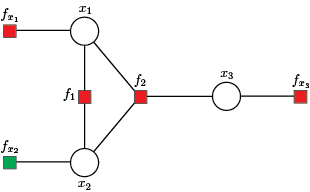
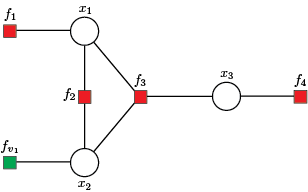
add freeze and defreeze factor node functions

diff --git a/docs/src/man/graphicalmodel.md b/docs/src/man/graphicalmodel.md
@@ -7,96 +7,65 @@ The GaussBP supports the composite type `GraphicalModel` with three fields:
 
 The subtype `FactorGraph` describes the factor graph obtained based on the input data. The GBP inference and marginal values are kept in the subtype `Inference`. The system of the linear equations being solved is preserved in the subtype `SystemModel`. Note that the function `graphicalModel()` returns the main GaussBP composite type `GraphicalModel` with all subtypes.
 
+In addition, we also provide several functions for factor graph manipulation.
+
 ---
 
-Input arguments of the function `graphicalModel()` describe the graphical model, while the function returns `GraphicalModel` type.  The order of inputs and their appearance is arbitrary, with only DATA input required. Still, for the methodological reasons, the syntax examples follow a certain order.
+#### Build graphical model
 
-#### Syntax
+Input arguments DATA of the function `graphicalModel()` describe the graphical model, while the function returns `GraphicalModel` type.
 ```julia-repl
-graphicalModel(DATA)
-graphicalModel(DATA; VIRTUAL)
-graphicalModel(DATA; VIRTUAL, DAMP)
-
+# loads the system data using h5-file from the package
+gbp = graphicalModel("data33_14.h5")
 ```
-```@raw html
-&nbsp;
-```
-#### Description
 ```julia-repl
-graphicalModel(DATA) forms the graphical model using DATA input
-graphicalModel(DATA; VIRTUAL) sets virtual factor nodes
-graphicalModel(DATA; VIRTUAL, DAMP) sets damping parameters
+# loads the system data using xlsx-file from the package
+gbp = graphicalModel("data33_14.xlsx")
 ```
-```@raw html
-&nbsp;
-```
-#### Output
 ```julia-repl
-gbp = graphicalModel() returns the graphical model
+# loads the system data from a custom path
+gbp = graphicalModel("C:/name.h5")
+```
+```julia-repl
+# loads the system data passing arguments directly
+gbp = graphicalModel(jacobian, observation, variances)
 ```
 
 ---
 
-#### Variable arguments
-The function `graphicalModel()` receives the variable argument DATA.
+#### Virtual factor nodes
 
+The GBP function `graphicalModel()` receives arguments by keyword to set the mean and variance of the virtual factor nodes. We advise the reader to read the section [message passing schedule] (@ref schedule) which provides a detailed description of the virtual factor nodes.
 
-| DATA            | input system data                                                           |
-|:----------------|:----------------------------------------------------------------------------|
-|                 |                                                                             |
-| **Example**     | `"data33_14.h5"`                                                            |
-| **Description** | loads the system data using h5-file from the package                        |
-|                 |                                                                             |
-| **Example**     | `"data33_14.xlsx"`                                                          |
-| **Description** |  loads the system data using xlsx-file from the package                     |
-|                 |                                                                             |
-| **Example**     | `"C:/name.h5"`                                                              |
-| **Description** | loads the system data using h5-file from a custom path                      |
-|                 |                                                                             |
-| **Example**     | `"C:/name.xlsx"`                                                            |
-| **Description** | loads the system data using xlsx-file from a custom path                    |
-|                 |                                                                             |
-| **Example**     | `jacobian, observation, variances`                                          |
-| **Description** | loads the system data passing arguments directly                            |
-
+```julia-repl
+gbp = graphicalModel(DATA; mean = value, variance = value)
+```
+Default setting of the mean value is `mean = 0.0`, while the default variance is equal to `variance = 1e10`.
 
 ---
 
-#### Keyword arguments
-The GBP function `graphicalModel()` receives a group of arguments by keyword: VIRTUAL and DAMP.
+#### Randomized damping parametars
 
-| VIRTUAL         | sets virtual factor nodes                                                           |
-|:----------------|:------------------------------------------------------------------------------------|
-|                 |                                                                                     |
-| **Command**     | `mean = value`                                                                      |
-| **Description** |  the mean value of the virtual factor nodes, `default setting: mean = 0.0`          |
-|                 |                                                                                     |
-| **Command**     | `variance = value`                                                                  |
-| **Description** |  the variance value of the virtual factor nodes, `default setting: variance = 1e10` |
-
-We advise the reader to read the section [message passing schedule] (@ref schedule) which provides a detailed description of the virtual factor nodes.
-
-```@raw html
-&nbsp;
+The GBP function `graphicalModel()` receives arguments by keyword to set damping parametars. We advise the reader to read the section [the GBP with randomized damping] (@ref dampGBP) which provides a detailed description of the input parameters.
+```julia-repl
+gbp = graphicalModel(DATA; prob = value, alpha = value)
 ```
+The keyword `prob` represents the probability of the Bernoulli random variable, independently sampled for each mean value message from a factor node to a variable node, applied for randomised damping iteration scheme with `value` between 0 and 1. Default setting is set to `prob = 0.6`. The damped message is evaluated as a linear combination of the message from the previous and the current iteration, with weights `alpha = value` and `1 - alpha`, applied for randomised damping iteration scheme where `alpha` is between 0 and 1. Default setting is set to `alpha = 0.4`.
 
-| DAMP            | sets damping parameters                                                     |
-|:----------------|:----------------------------------------------------------------------------|
-| **Command**     | `prob = value`                                                              |
-| **Description** |  a Bernoulli random variable with probability `prob = value` independently sampled for each mean value message from a factor node to a variable node, applied for randomised damping iteration scheme with `value` between 0 and 1, `default setting: prob = 0.6`     |
-|                 |                                                                             |
-| **Command**     | `alpha = value`                                                             |
-| **Description** |  the damped message is evaluated as a linear combination of the message from the previous and the current iteration, with weights `alpha = value` and `1 - alpha`, applied for randomised damping iteration scheme where `alpha` is between 0 and 1, `default setting: alpha = 0.4` |
+---
 
-We advise the reader to read the section [the GBP with randomized damping] (@ref dampGBP) which provides a detailed description of the input parameters.
+#### Freeze factor nodes
+The function freezes the target factor node, whereby all messages sent by the factor node retain the values that were at the time of freezing.
+```julia-repl
+freezeFactor!(gbp; factor = value)
+```
+The function accepts the composite type `GraphicalModel` and the factor node index corresponding to the row number of the jacobian matrix.
 
+---
 
-
-
-
-
-
-
-
-
-
+#### Defreeze factor nodes
+The function refreezes the target factor node which was frozen, whereby the factor node begins to calculate outgoing messages.
+```julia-repl
+defreezeFactor!(gbp; factor = value)
+```
+The function accepts the composite type `GraphicalModel` and the factor node index corresponding to the row number of the jacobian matrix. Defreeze node.

diff --git a/docs/src/man/output.md b/docs/src/man/output.md
@@ -1,16 +1,18 @@
 # [Output Data](@id output)
 
 The main inference results are kept in the composite type `GraphicalModel` in the subtype `Inference` with fields:
-- `FactorVariable`,
+- `fromFactor`,
+- `toVariable`
 - `meanFactorVariable`,
 - `varianceFactorVariable`,
-- `VariableFactor`
+- `fromVariable`
+- `toFactor`
 - `meanVariableFactor`,
 - `varianceVariableFactor`,
 - `mean`,
 - `variance`.
 
-The values of messages from factor nodes to variable nodes can be accessed using `meanFactorVariable` and `varianceFactorVariable` fields, while values of messages from variable nodes to factor nodes are stored in `meanVariableFactor` and `varianceVariableFactor` fields. These values correspond to edges defined by factor and variable nodes, with indexes preserved in `FactorVariable` and `VariableFactor` fields.
+The values of messages from factor nodes to variable nodes can be accessed using `meanFactorVariable` and `varianceFactorVariable` fields, while values of messages from variable nodes to factor nodes are stored in `meanVariableFactor` and `varianceVariableFactor` fields. These values correspond to edges defined by factor and variable nodes, with indexes preserved in `fromFactor` - `toVariable` and `fromVariable` - `toFactor` fields.
 
 Fields `mean` and `variance` define state variable marginal distributions.
 
@@ -21,15 +23,15 @@ The `Inference` field contains the GBP algorithm results. To describe the output
 using GaussBP
 
 #     x1   x2   x3
-H = [1.0  0.0  0.0;  # fx1
-     2.0 -2.0  0.0;  # f1
-    -5.0 -4.0  9.0;  # f2
-     0.0  0.0  1.0]  # fx3
+H = [1.0  0.0  0.0;  # f1
+     2.0 -2.0  0.0;  # f2
+    -5.0 -4.0  9.0;  # f3
+     0.0  0.0  1.0]  # f4
 
-#    fx1   f1   f2  fx3
+#     f1   f2   f3   f4
 z = [0.0; 1.7; 1.9; 0.2]
 
-#      fx1   f1   f2   fx3
+#       f1   f2   f3    f4
 v = [1e-10; 0.1; 0.1; 1e-2]
 ```
 The factor graph construction and message initialization is accomplished using `graphicalModel()` function.
@@ -39,7 +41,7 @@ gbp = graphicalModel(H, z, v)
 ---
 
 #### Factor graph
-The first step in solving/analysing the above system/system of equations is forming a factor graph, where set of variable nodes ``\mathcal{X} = \{x_1, x_2, x_3 \}`` is defined by state variables. The set of equations denotes the set of factor nodes ``\mathcal{F} = \{f_{x_1}, f_1, f_2, f_{x_3} \}``.
+The first step in solving/analysing the above system/system of equations is forming a factor graph, where set of variable nodes ``\mathcal{X} = \{x_1, x_2, x_3 \}`` is defined by state variables. The set of equations denotes the set of factor nodes ``\mathcal{F} = \{f_1, f_2, f_3, f_4 \}``.
 
 ```@raw html
 <img src="../../assets/factorgraph.png" class="center"/>
@@ -47,34 +49,33 @@ The first step in solving/analysing the above system/system of equations is form
 &nbsp;
 ```
 
-Additionaly, we include the virtual factor node ``f_{x_2}``, where factor node ``f_{x_2}`` is a singly connected factor node used when the variable node is not directly measured, hence having variance ``v_{x_2} \to \infty`` or a priori given mean and variance of state variables. To change defualt values of virtual factor nodes use:
+Additionaly, we include the virtual factor node ``f_{v_2}``, where factor node ``f_{v_2}`` is a singly connected factor node used when the variable node is not directly measured, hence having variance ``v_{x_2} \to \infty`` or a priori given mean and variance of state variables. To change defualt values of virtual factor nodes use:
 ```julia-repl
 gbp = graphicalModel(H, z, v; mean = 0.1, variance = 1e60)
 ```
 ---
 
 #### Messages initialization
-The initialization step starts with messages from local factor nodes ``\{f_{x_1}, f_{x_2}, f_{x_3} \}``  to variable nodes ``\mathcal{X}``. Then, variable nodes ``\mathcal{X}`` forward the incoming messages received from local factor nodes along remaining edges defined by ``\{f_1, f_2\}`` and ``\mathcal{X}``.
+The initialization step starts with messages from local factor nodes ``\{f_1, f_{v_2}, f_4 \}`` to variable nodes ``\mathcal{X}``. Then, variable nodes ``\mathcal{X}`` forward the incoming messages received from local factor nodes along remaining edges defined by ``\{f_2, f_3\}`` and ``\mathcal{X}``.
 
 ---
 
 
 #### Messages from factor nodes to variable nodes
-The GBP iterations computing messages from indirect factor nodes ``\{f_1, f_2\}`` to variable nodes ``\mathcal{X}``, using incoming messages from
-variable nodes ``\mathcal{X}`` to indirect factor nodes ``\{f_1, f_2\}`` obtained in the previus step.
+The GBP iterations computing messages from indirect factor nodes ``\{f_2, f_3\}`` to variable nodes ``\mathcal{X}``, using incoming messages from variable nodes ``\mathcal{X}`` to indirect factor nodes ``\{f_2, f_3\}`` obtained in the previus step.
 ```julia-repl
 messageFactorVariableVanilla(gbp)
 
 julia> T = gbp.inference
-julia> [T.FactorVariable T.meanFactorVariable T.varianceFactorVariable]
+julia> [T.fromFactor T.toVariable T.meanFactorVariable T.varianceFactorVariable]
 5×4 Matrix{Float64}:
- 1.0  1.0   0.95      1.0e60
- 2.0  1.0  -0.1       6.4e59
- 1.0  2.0  -0.85      0.025
- 2.0  2.0  -0.025     0.056875
- 2.0  3.0   0.255556  1.97531e59
+ 2.0  1.0   0.95      1.0e60
+ 3.0  1.0  -0.1       6.4e59
+ 2.0  2.0  -0.85      0.025
+ 3.0  2.0  -0.025     0.056875
+ 3.0  3.0   0.255556  1.97531e59
 ```
-The first row defines the message from factor node ``f_1`` to variable node ``x_1``, the second row keeps the message from factor node ``f_2`` to variable node ``x_1``, etc.
+The first row defines the message from factor node ``f_2`` to variable node ``x_1``, the second row keeps the message from factor node ``f_3`` to variable node ``x_1``, etc.
 
 ---
 
@@ -85,15 +86,15 @@ factor nodes ``\mathcal{F}`` to variable nodes ``\mathcal{X}``.
 messageVariableFactorVanilla(gbp)
 
 julia> T = gbp.inference
-julia> [T.VariableFactor T.meanVariableFactor T.varianceVariableFactor]
+julia> [T.fromVariable T.toFactor T.meanVariableFactor T.varianceVariableFactor]
 5×4 Matrix{Float64}:
- 1.0  1.0  -1.5625e-71  1.0e-10
- 2.0  1.0  -0.025       0.056875
- 1.0  2.0   9.5e-71     1.0e-10
- 2.0  2.0  -0.85        0.025
- 3.0  2.0   0.2         0.01
+ 1.0  2.0  -1.5625e-71  1.0e-10
+ 2.0  2.0  -0.025       0.056875
+ 1.0  3.0   9.5e-71     1.0e-10
+ 2.0  3.0  -0.85        0.025
+ 3.0  3.0   0.2         0.01
 ```
-The first row defines the message from variable node ``x_1`` to factor node ``f_1``, the second row keeps the message from variable node ``x_2`` to factor node ``f_1``, etc.
+The first row defines the message from variable node ``x_1`` to factor node ``f_2``, the second row keeps the message from variable node ``x_2`` to factor node ``f_2``, etc.
 
 ---
 

diff --git a/docs/src/man/inference.md b/docs/src/man/inference.md
@@ -58,7 +58,7 @@ Same as before, the function accepts only the composite type `GraphicalModel`.
 #### Dynamic inference
 This framework is an extension to the real-time model that operates continuously and accepts asynchronous measurement mean and variance values. More precisely, in each GBP iteration user can change the mean and variance values of the corresponding factor nodes and continue the GBP iteration process.
 ```julia-repl
-dynamicInference(gbp, dynamic)
+dynamicInference!(gbp, dynamic)
 ```
 The function accepts the composite type `GraphicalModel` and the `dynamic` variable, which defines the dynamic update scheme of the factor nodes. Note that during each function call, `SystemModel.observation` and `SystemModel.variance` variables also change values according to the `dynamic` variable.
 
@@ -67,7 +67,7 @@ The function accepts the composite type `GraphicalModel` and the `dynamic` varia
 #### Dynamic inference with variance ageing
 The ageing framework represents an extension of the dynamic model and establishes a model for measurement arrival processes and for the process of measurement deterioration or ageing over time (or GBP iterations). We integrate these measurements regularly into the running instances of the GBP algorithm.
 ```julia-repl
-ageingInference(gbp, dynamic)
+ageingInference!(gbp, dynamic)
 ```
 This function should be integrated into the iteration loop to ensure variance ageing over iterations. The function accepts the composite type `GraphicalModel` and the variable `dynamic`. Also, during each function call, `SystemModel.variance` variable changes values according to the ageing model.
 
@@ -76,7 +76,7 @@ This function should be integrated into the iteration loop to ensure variance ag
 #### Damping parametars
 The randomised damping parameters `prob` and `alpha` can be defined using the function `graphicalModel()`. Then, the set of damp messages are fixed through GBP iterations. However, we provide the function that changes damp parameters `prob` and `alpha` on the fly:
 ```julia-repl
-damping(gbp; prob = value, alpha = value)
+damping!(gbp; prob = value, alpha = value)
 ```
 Thus, the function accepts only the composite type `GraphicalModel`, and keywords `prob` and `alpha`.
 

diff --git a/README.md b/README.md
@@ -118,7 +118,7 @@ for iteration = 1:200                       # the GBP inference
 end
 
 dynamic = [1 0.85 1e-10; 3 2.4 1e-10]       # factor nodes change the mean and variance values
-dynamicInference(gbp, dynamic)              # integrate changes in the running GBP
+dynamicInference!(gbp, dynamic)             # integrate changes in the running GBP
 for iteration = 201:400                     # continues the GBP inference
     messageFactorVariableVanilla(gbp)       # compute message using the native GBP
     messageVariableFactorVanilla(gbp)       # compute message using the native GBP
@@ -143,9 +143,9 @@ for iteration = 1:200                       # the GBP inference
 end
 
 dynamic = [1 0.85 1.0 1 0.05 0 50]          # factor node with the linear ageing
-dynamicInference(gbp, dynamic)              # integrate changes in the running GBP
+dynamicInference!(gbp, dynamic)             # integrate changes in the running GBP
 for iteration = 201:400                     # continues the GBP inference
-    ageingInference(gbp, dynamic)           # integrate variance ageing
+    ageingInference!(gbp, dynamic)          # integrate variance ageing
     messageFactorVariableVanilla(gbp)       # compute message using the native GBP
     messageVariableFactorVanilla(gbp)       # compute message using the native GBP
 end

diff --git a/docs/src/index.md b/docs/src/index.md
@@ -117,7 +117,7 @@ for iteration = 1:200                       # the GBP inference
 end
 
 dynamic = [1 0.85 1e-10; 3 2.4 1e-10]       # factor nodes change the mean and variance values
-dynamicInference(gbp, dynamic)              # integrate changes in the running GBP
+dynamicInference!(gbp, dynamic)             # integrate changes in the running GBP
 for iteration = 201:400                     # continues the GBP inference
     messageFactorVariableVanilla(gbp)       # compute message using the native GBP
     messageVariableFactorVanilla(gbp)       # compute message using the native GBP
@@ -142,9 +142,9 @@ for iteration = 1:200                       # the GBP inference
 end
 
 dynamic = [1 0.85 1.0 1 0.05 0 50]          # factor node with the linear ageing
-dynamicInference(gbp, dynamic)              # integrate changes in the running GBP
+dynamicInference!(gbp, dynamic)             # integrate changes in the running GBP
 for iteration = 201:400                     # continues the GBP inference
-    ageingInference(gbp, dynamic)           # integrate variance ageing
+    ageingInference!(gbp, dynamic)          # integrate variance ageing
     messageFactorVariableVanilla(gbp)       # compute message using the native GBP
     messageVariableFactorVanilla(gbp)       # compute message using the native GBP
 end
